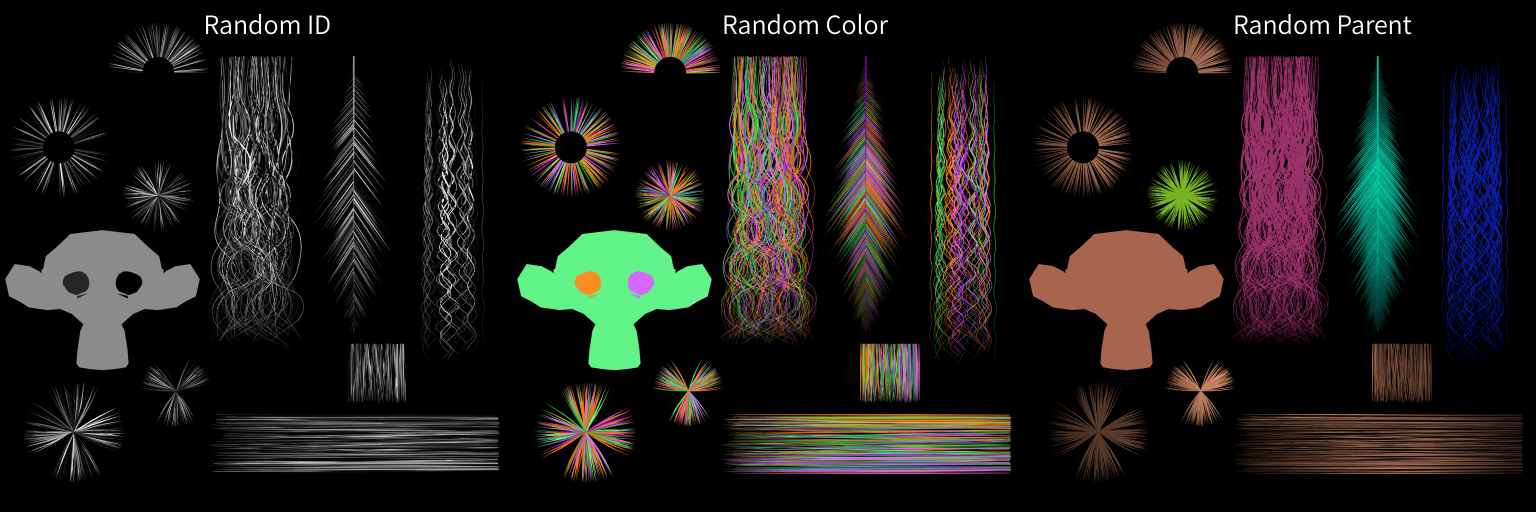
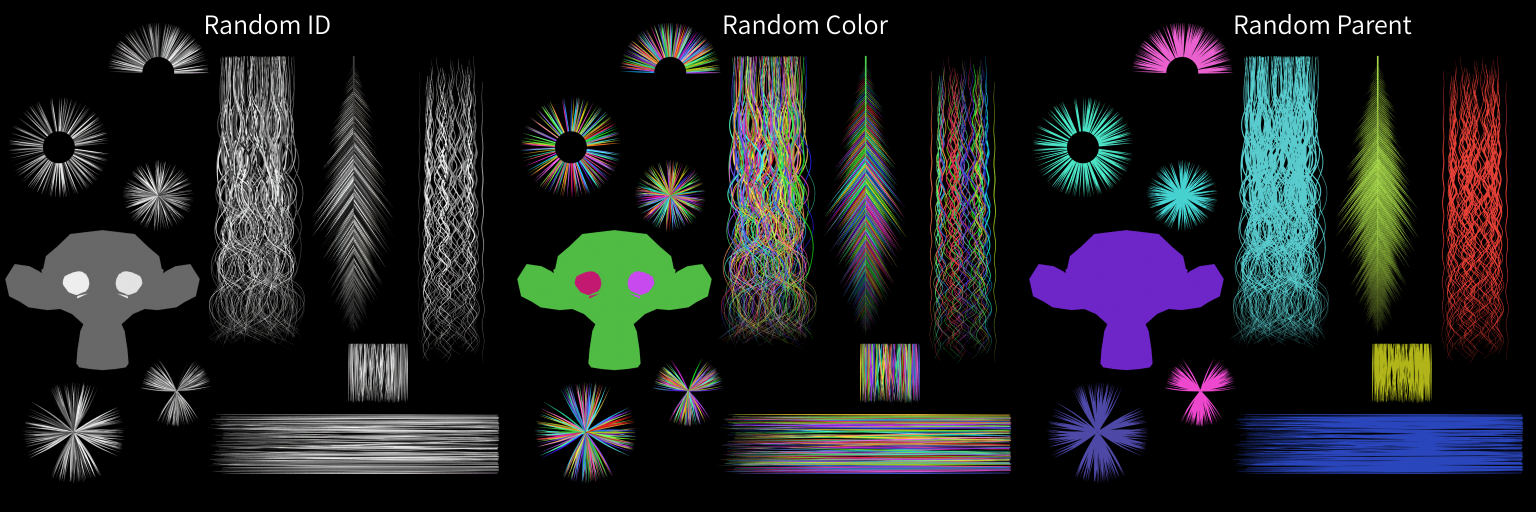
update

diff --git a/index.html b/index.html
@@ -788,8 +788,8 @@
           <footer>
             <p class="lang-pt">Dúvidas ou suporte? Entre em contato: <a href="mailto:support.simplehaircards@gmail.com">support.simplehaircards@gmail.com</a></p>
             <p class="lang-en">Questions or support? Contact us: <a href="mailto:support.simplehaircards@gmail.com">support.simplehaircards@gmail.com</a></p>
-            <span class="lang-pt">Simple Hair Cards v1.0 · Documentação por Esaque Silva</span>
-            <span class="lang-en">Simple Hair Cards v1.0 · Documentation by Esaque Silva</span>
+            <span class="lang-pt">Simple Hair Cards v1.1 · Documentação por Esaque Silva</span>
+            <span class="lang-en">Simple Hair Cards v1.1 · Documentation by Esaque Silva</span>
           </footer>
 
         </main>
